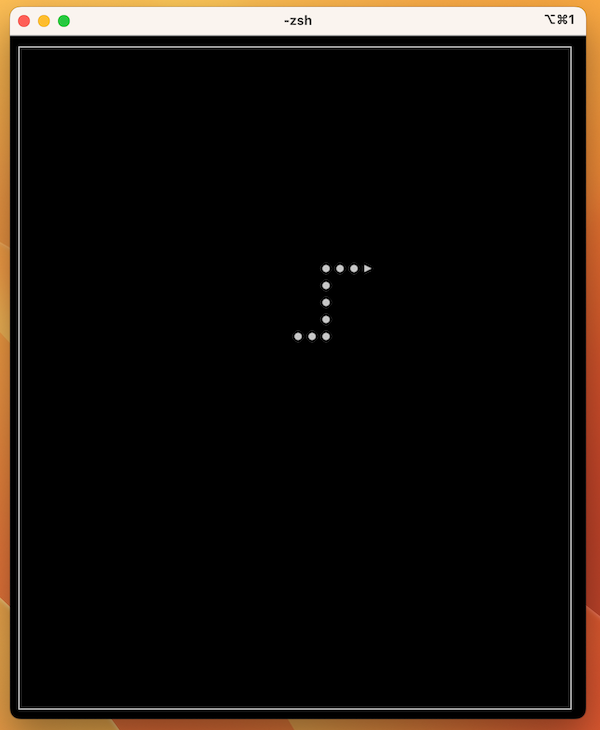
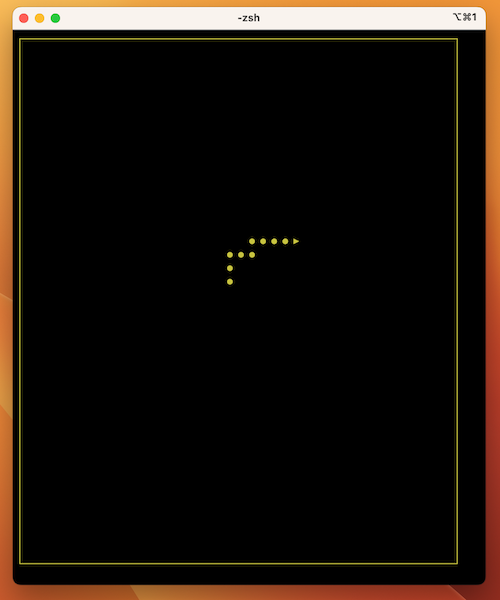
Version that doesn't pollute the terminal and doesn't have glitches

Changed region(s): [[0.0, 0.0, 1.0, 1.0], [0.45, 0.36, 0.63, 0.48]]

diff --git a/src/snake/screen.rs b/src/snake/screen.rs
@@ -6,6 +6,7 @@ use ascii_canvas::{{AsciiCanvas, AsciiView}};
 use super::direction::Direction;
 use super::command::Command;
 use super::body::SnakeBody;
+use super::body::Point;
 
 use ascii_canvas::style::DEFAULT;
 
@@ -43,7 +44,7 @@ impl Screen {
         stdout.queue(SetBackgroundColor(Color::Black)).unwrap();
         stdout.queue(Clear(ClearType::All)).unwrap();
         stdout.queue(SetBackgroundColor(Color::Black)).unwrap();
-        stdout.queue(SetForegroundColor(Color::White)).unwrap();
+        stdout.queue(SetForegroundColor(Color::DarkYellow)).unwrap();
         Screen {
             canvas,
             width,
@@ -78,7 +79,9 @@ impl Screen {
     }
 
     fn update(&mut self) {
-        self.canvas.write_char(self.snake.pos[self.snake.length-1].row, self.snake.pos[self.snake.length-1].column, ' ', DEFAULT);
+        let mut stdout = io::stdout();
+        stdout.queue(MoveTo(self.snake.pos[self.snake.length-1].column as u16, self.snake.pos[self.snake.length-1].row as u16)).unwrap();
+        print!(" ");
         self.snake.update_position(&self.direction);
 
         for idx in 0..self.snake.length {
@@ -93,10 +96,17 @@ impl Screen {
 
         for (rowIdx, row) in self.canvas.to_strings().iter().enumerate() {
             for (columnIdx, symbol) in row.to_string().chars().enumerate() {
-                stdout.queue(MoveTo(columnIdx as u16, rowIdx as u16)).unwrap();
-                print!("{}", symbol);
+                if rowIdx == 0 || rowIdx == self.height - 1 || columnIdx == 0 || columnIdx == self.width -1 {
+                    stdout.queue(MoveTo(columnIdx as u16, rowIdx as u16)).unwrap();
+                    print!("{}", symbol);
+                }
             }
         }
+        for pos in &self.snake.pos {
+            stdout.queue(MoveTo(pos.column as u16, pos.row as u16)).unwrap();
+            print!("{}", pos.direction.to_string());
+        }
+        stdout.queue(MoveTo(( self.width+1) as u16, (self.height + 1) as u16)).unwrap();
         stdout.flush().unwrap();
     }
 }
